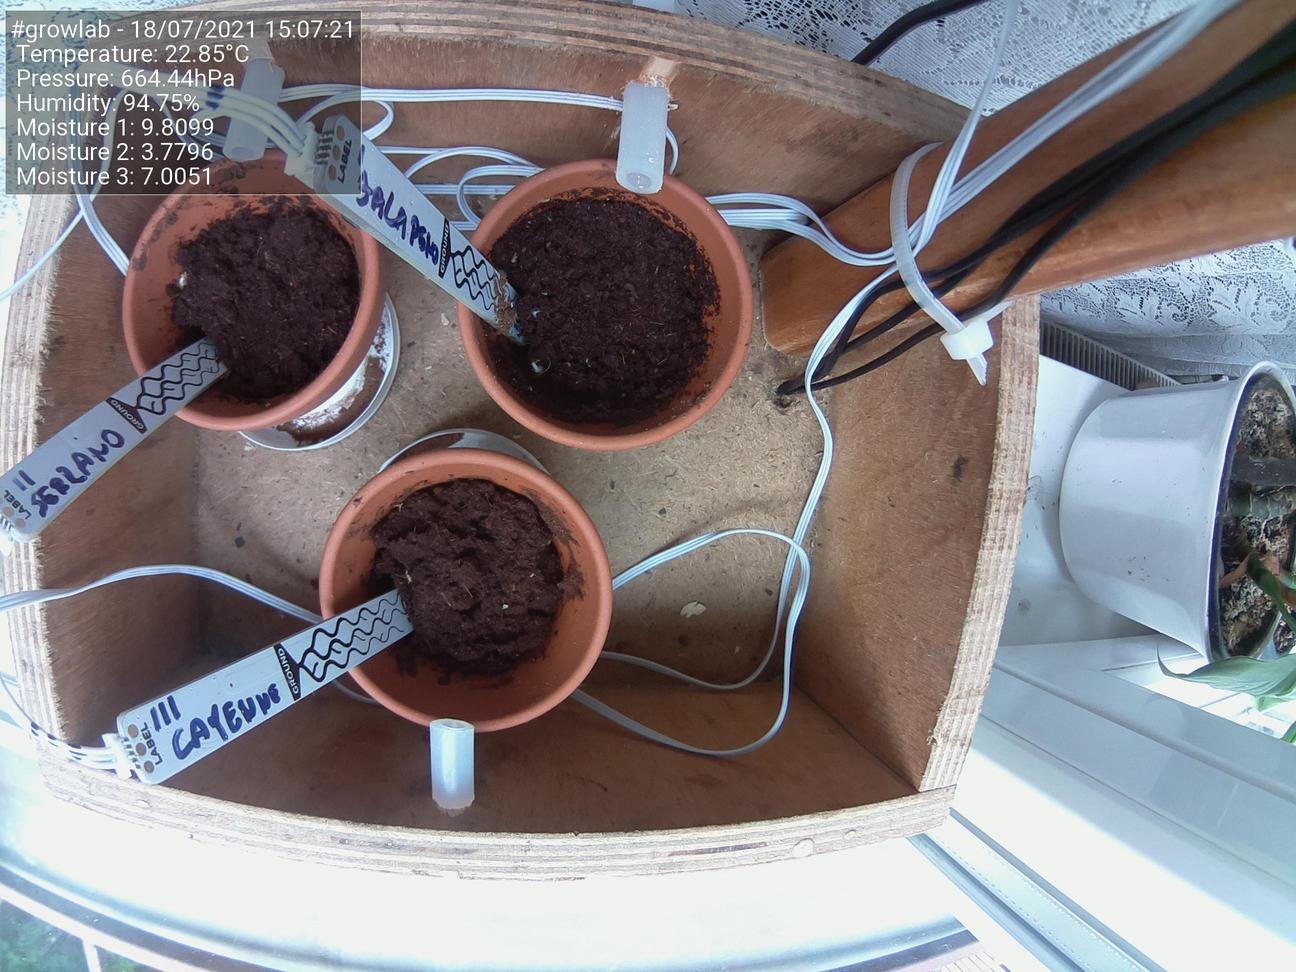
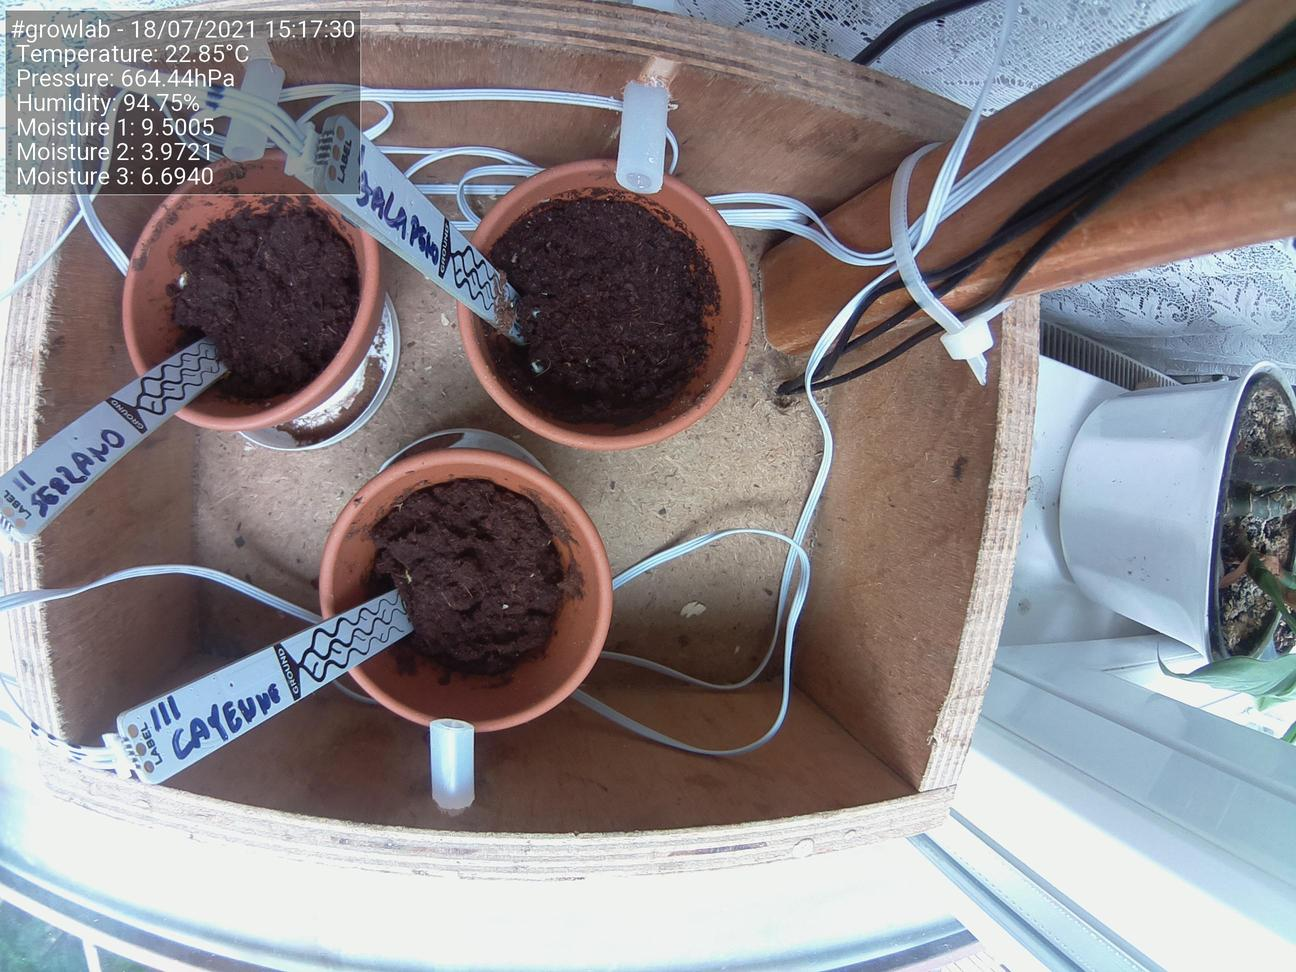
Update images at Sun 18 Jul 15:17:35 BST 2021

diff --git a/docs/index.html b/docs/index.html
@@ -51,25 +51,25 @@
                                 <td>Date</td>
                                 <td>18/07/2021</td>
                                 <td>Time</td>
-                                <td>15:07:21</td>
+                                <td>15:17:30</td>
                             </tr>
                             <tr>
                                 <td>Temperature</td>
                                 <td>22.85°C</td>
                                 <td>Moisture 1</td>
-                                <td>9.8099</td>
+                                <td>9.5005</td>
                             </tr>
                             <tr>
                                 <td>Humidity</td>
                                 <td>94.75%</td>
                                 <td>Moisture 2</td>
-                                <td>3.7796</td>
+                                <td>3.9721</td>
                             </tr>
                             <tr>
                                 <td>Pressure</td>
                                 <td>664.44hPa</td>
                                 <td>Moisture 3</td>
-                                <td>7.0051</td>
+                                <td>6.6940</td>
                             </tr>
                         </tbody>
                     </table>
@@ -77,7 +77,7 @@
 
                 <h5>Latest image</h5>
                 <div style="width: 85%;">
-                            <img class="figure-img img-fluid rounded" src="./preview.jpg?uid=1626617245.9956279">
+                            <img class="figure-img img-fluid rounded" src="./preview.jpg?uid=1626617855.1269057">
                 </div>
             </div>
         </div>
